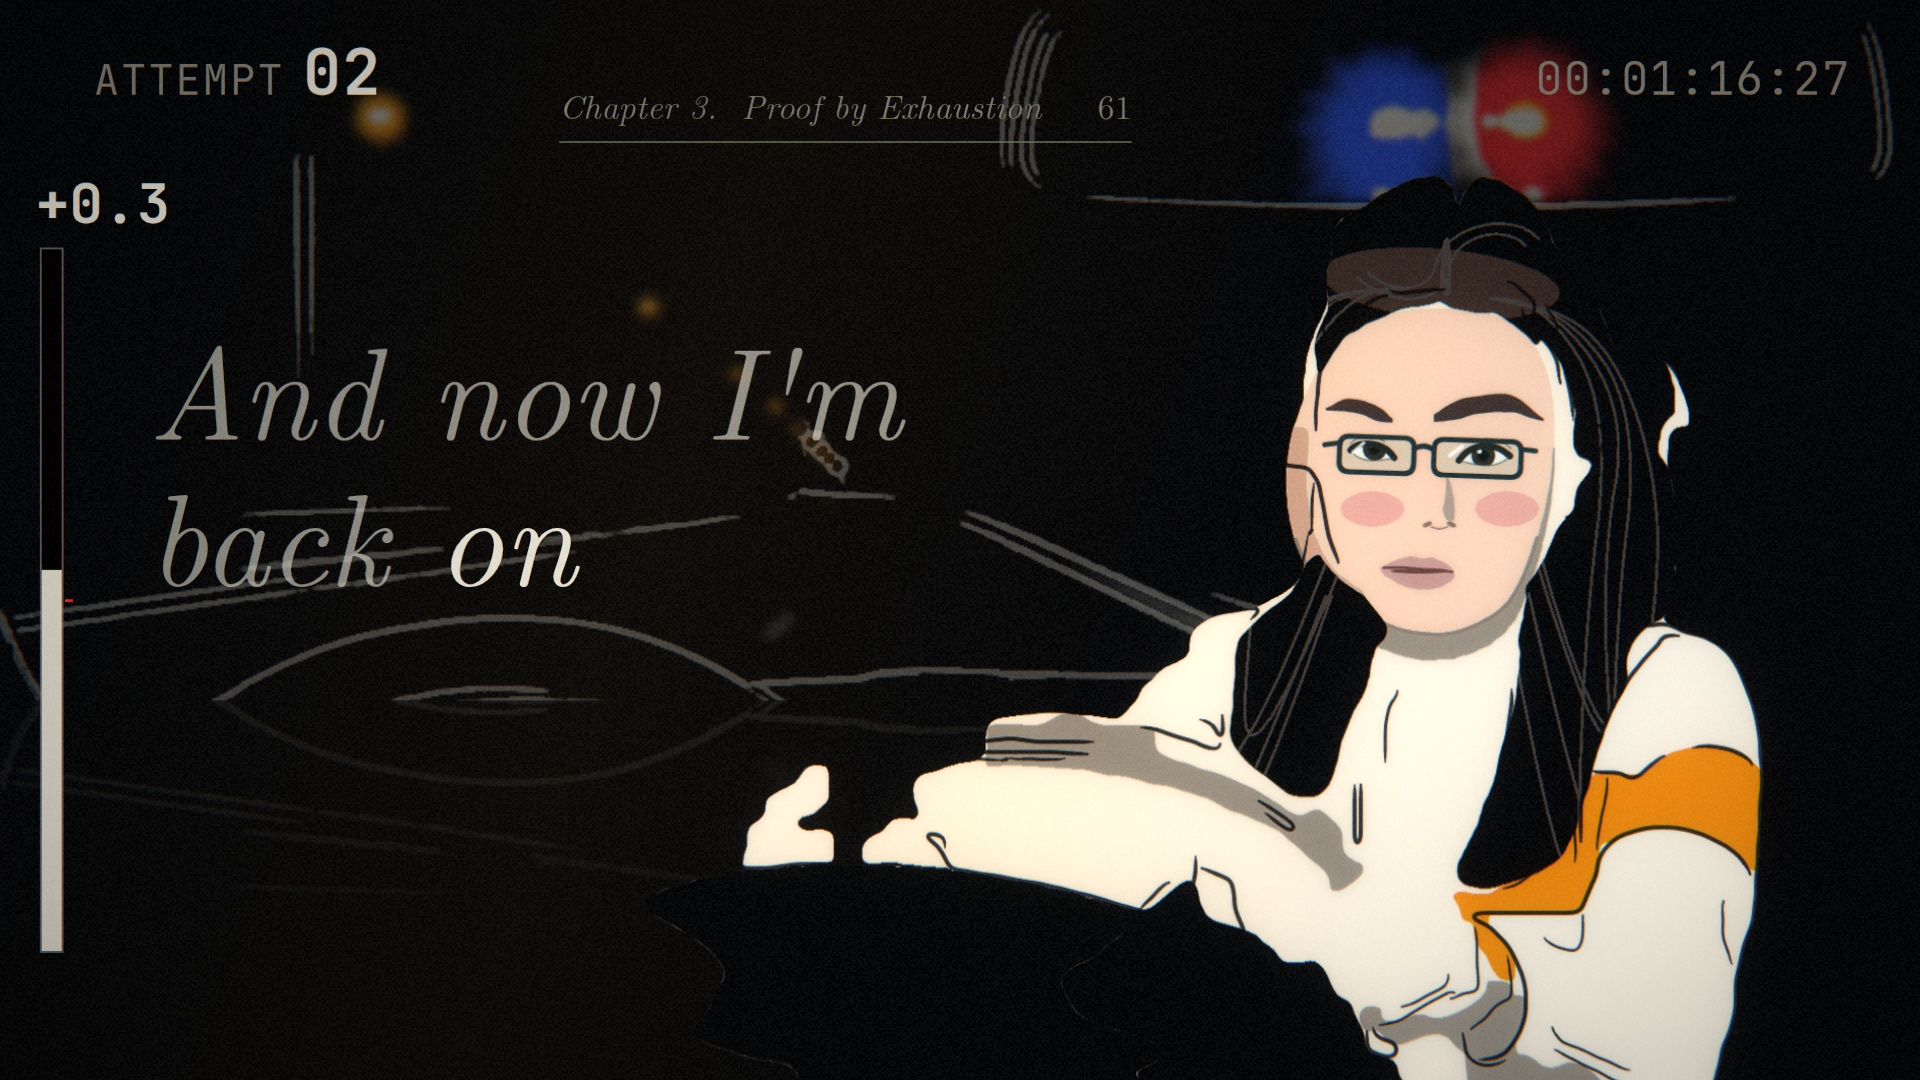
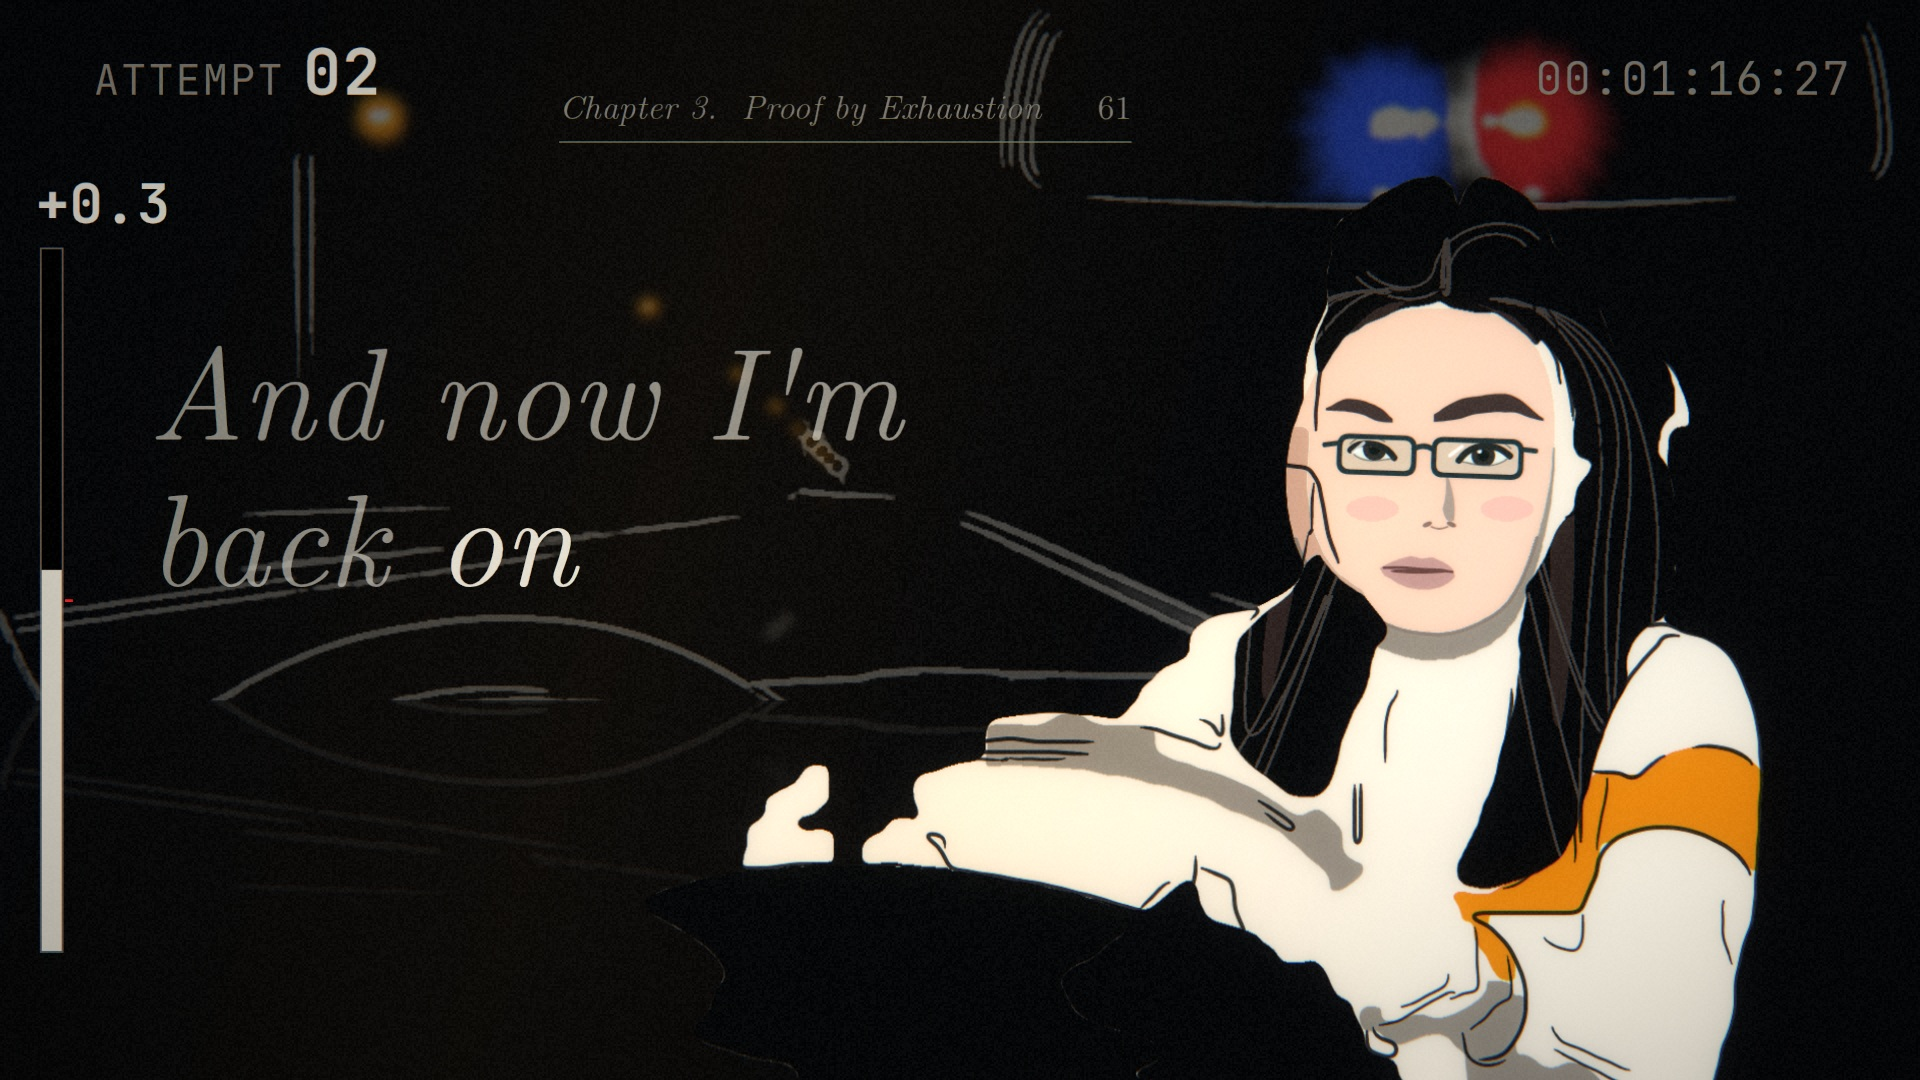
Likeness rules: pose congruence, frontal for center-lock
Claude-Session: https://claude.ai/code/session_01QH8JxH6iaaco1ynhTZZBdC

diff --git a/tools/jade2/build.py b/tools/jade2/build.py
@@ -269,7 +269,7 @@ def build_frame(J, i, frame, meta, fd, pf):
     return info
 
 VARIANTS = {}
-SKIN, SKIN_SH, BLUSH, HAIR_HI = (180, 201, 233), (146, 168, 211), (160, 168, 226), (40, 44, 58)   # BGR warm palette
+SKIN, SKIN_SH, BLUSH, HAIR_HI = (182, 203, 236), (150, 172, 214), (172, 184, 236), (34, 36, 46)   # BGR warm palette
 def variant_B(J, i, out, frame, info, face, hair, iod):
     """(B) 4–5 tone warm-skin cel: skin + skin shadow + cheek blush + 2-tone hair (flat shapes)."""
     fm = face > 0
@@ -280,14 +280,17 @@ def variant_B(J, i, out, frame, info, face, hair, iod):
     lo = np.array(info['lips']['outer']); mc = lo.mean(0); nz = np.array(info['nose'])
     for side in (-1, 1):
         c = (nz[0] + side * iod * 0.42, nz[1] - iod * 0.05)
-        m = np.zeros(face.shape, np.uint8); cv2.ellipse(m, (int(c[0]), int(c[1])), (int(iod * 0.2), int(iod * 0.11)), 0, 0, 360, 1, -1, cv2.LINE_AA)
-        out[(m > 0) & fm, :3] = BLUSH
+        m = np.zeros(face.shape, np.uint8); cv2.ellipse(m, (int(c[0]), int(c[1])), (int(iod * 0.17), int(iod * 0.08)), 0, 0, 360, 1, -1, cv2.LINE_AA)
+        out[(m > 0) & fm & bone, :3] = BLUSH
     # hair second tone: a broad soft sheen band on the crown
     ink = (np.abs(out[..., :3].astype(int) - INK).sum(-1) < 12) & (hair > 0)
-    top = np.array(info['top']); up = np.array(info['up'])
-    m = np.zeros(face.shape, np.uint8); c = top + up * iod * 0.15
-    cv2.ellipse(m, (int(c[0]), int(c[1])), (int(iod * 0.75), int(iod * 0.22)), math.degrees(math.atan2(up[1], up[0])) + 90, 0, 360, 1, -1, cv2.LINE_AA)
-    out[(m > 0) & ink, :3] = HAIR_HI
+    # hair second tone: the curtains falling from the part (one lit side of each), flat shapes
+    part = np.array(info['part']); up = np.array(info['up']); perp = np.array([up[1], -up[0]])
+    for side in (-1, 1):
+        q = np.array([part + perp * side * iod * 0.1, part + perp * side * iod * 0.55 - up * iod * 0.1, part + perp * side * iod * 0.9 - up * iod * 0.9,
+                      part + perp * side * iod * 0.98 - up * iod * 2.6, part + perp * side * iod * 0.86 - up * iod * 2.6, part + perp * side * iod * 0.72 - up * iod * 0.8, part + perp * side * iod * 0.35 - up * iod * 0.05])
+        m = np.zeros(face.shape, np.uint8); cv2.fillPoly(m, [np.round(chaikin(q, 3) * 4).astype(np.int32)], 1, cv2.LINE_AA, shift=2)
+        out[(m > 0) & ink, :3] = HAIR_HI
     os.makedirs(f'{ROOT}/assets/roto/{J}/celB', exist_ok=True); cv2.imwrite(f'{ROOT}/assets/roto/{J}/celB/{i:04d}.png', out)
 def variant_C(J, i, out, frame, info, face, hair, iod):
     """(C) graphic portrait drawn over her REAL face: her photo warped to the frame's eye anchors, smoothed and
@@ -295,10 +298,9 @@ def variant_C(J, i, out, frame, info, face, hair, iod):
     sys.path.insert(0, ROOT + '/tools/likeness'); import measure as MS
     ref = ROOT + '/refs/jade/IMG_20180610_074732_mr1528617091925.jpg'
     rgb = MS.load_rgb(ref); lm = MS.landmarks(rgb); P = lm[0][:, :2]
-    src = np.float32([P[33], P[263], P[152]])
-    fd_c = info['_canthi']; ch = np.array(info['chin'])
-    dst = np.float32([fd_c[0], fd_c[1], ch])
-    A = cv2.getAffineTransform(src, dst)
+    fd_c = info['_canthi']
+    src = np.float32([P[33], P[263], P[1], P[152]]); dst = np.float32([fd_c[0], fd_c[1], info['nose'], info['chin']])
+    A, _ = cv2.estimateAffine2D(src, dst, method=cv2.LMEDS)
     warped = cv2.warpAffine(cv2.cvtColor(rgb, cv2.COLOR_RGB2BGR), A, (W, H), flags=cv2.INTER_CUBIC)
     sm = warped
     for _ in range(4): sm = cv2.bilateralFilter(sm, 11, 30, 11)
@@ -315,11 +317,12 @@ def variant_C(J, i, out, frame, info, face, hair, iod):
         mk = cv2.morphologyEx(mk.astype(np.uint8), cv2.MORPH_OPEN, np.ones((7, 7), np.uint8))
         col = tuple(int(x) for x in cen[5 - k]) if False else tuple(int(x) for x in cen[k])
     # paint darkest-first-as-base: fill region with the lightest, then darker levels on top
-    smooth_fill(region.astype(np.uint8), (*[int(x) for x in cen[5]], 255), res, min_area=500, step=4, it=3)
+    RAMP = [(52, 44, 58), (92, 98, 140), (124, 142, 192), (150, 172, 214), (178, 199, 233), (204, 222, 244)]   # warm skin ramp (BGR), dark → light
+    smooth_fill(region.astype(np.uint8), (*RAMP[5], 255), res, min_area=500, step=4, it=3)
     for k in range(4, -1, -1):
         mk = ((L >= 0) & (L <= k)).astype(np.uint8)
         mk = cv2.morphologyEx(mk, cv2.MORPH_OPEN, np.ones((5, 5), np.uint8)) & region
-        smooth_fill(mk, (*[int(x) for x in cen[k]], 255), res, min_area=int(iod * iod * 0.004), step=3, it=3, holes=True)
+        smooth_fill(mk, (*RAMP[k], 255), res, min_area=int(iod * iod * 0.004), step=3, it=3, holes=False)
     os.makedirs(f'{ROOT}/assets/roto/{J}/celC', exist_ok=True); cv2.imwrite(f'{ROOT}/assets/roto/{J}/celC/{i:04d}.png', res)
 
 def run(J, fr=None):

diff --git a/docs/LIKENESS_RULES.md b/docs/LIKENESS_RULES.md
@@ -51,3 +51,6 @@ animations (J1, J6). Everything else waits for morning review.
   landmarks only as anchors/pose; eyes/brows/crease are drawn from the canonical real-photo template. Mouth from the
   vocal stem. Seedance lip-sync leads by a constant ~0.29 s (cut reference audio to start at the first sung word, or
   shift video +0.29 s). Seedance needs use_virtual_avatar:true for her face (else error 7003).
+- POSE CONGRUENCE (user): head pose and body pose must agree in every composite/frame (J9 failed: face pointed a
+  different way than the body → uncanny; J6 is the good example). Performance/center-lock shots (J5, J5b) use a
+  straight-on frontal photo (yaw≈0). Measure head yaw/pitch/roll and pose the body around it; verify shoulder line.
